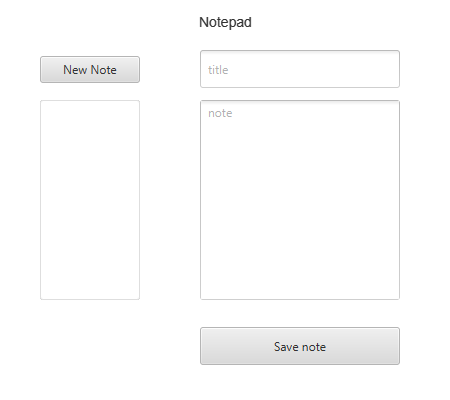
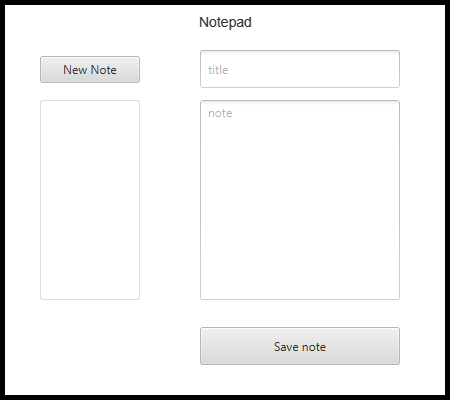
Updated README with a user story
Added User Story to the README and a border around the example application image. Closes #2

Changed region(s): [[0.0, 0.0, 1.0, 1.0]]

diff --git a/notisblokk/README.md b/notisblokk/README.md
@@ -15,6 +15,13 @@ own package and resources separate from Java source code.
 - **src/main/resources** - Other files such as configs, .css and .fxml.
 - **src/test/java** - Test files for our source code.
 
+### User Story
+We are actively using Issues and Milestones in GitLab to track our progress and tasks that
+need to be completed. This is also where we keep most of our user stories.
+
+Week 1: The goal for this week was having a Minimum Viable Product (MVP) ready. One example of an
+user story we worked on is `I want to be able to save the note I wrote to continue later`.
+
 # Quickstart: Build and run
 
 The project is built and run with Gradle following these steps:
